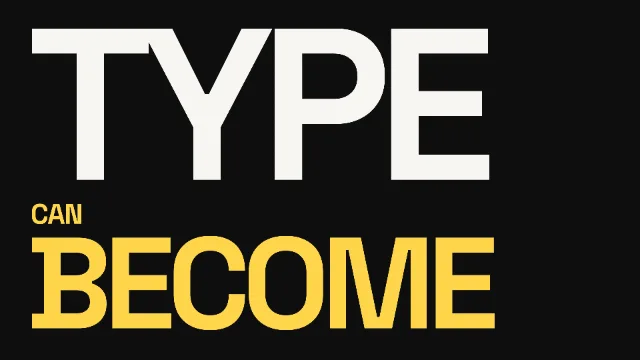
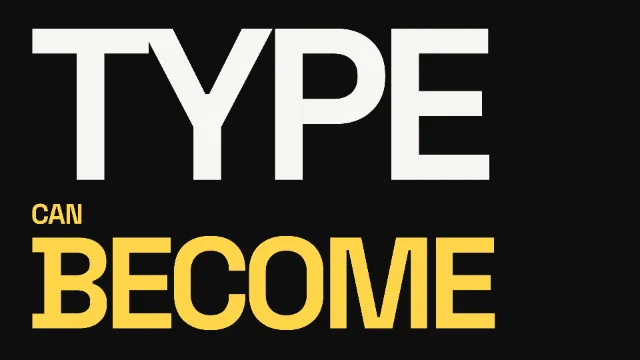
fix(kinetic-type): a staggered word reads once its slowest glyph settles
Readability (the layout contract's expected words and phrase checks at a
beat) evaluated the word-level reveal, so a staggered word counted as
readable while its last letters were still rising. It now requires every
glyph to be settled. The reference piece moves its shared axis half a
pixel-step inside title-safe and narrows the tall-frame TYPE so the
widest face at full weight clears the action column.

diff --git a/src/lib/platform/kinetic-type-field-validation.ts b/src/lib/platform/kinetic-type-field-validation.ts
@@ -10,6 +10,7 @@ import {
 	type SurfaceState
 } from './engine-schema';
 import { evaluateKeyframeTrackAtMs } from './keyframe-track-evaluation';
+import { evaluateKineticWordGlyphFrames } from '$lib/utils/kinetic-word-glyphs';
 
 /** Semantic finding inside `surface.typeField`. Structural ceilings live in Zod. */
 export interface KineticTypeFieldSemanticIssue {
@@ -30,9 +31,13 @@ export const KINETIC_PHRASE_READABLE_REVEAL = 0.02;
  */
 export function isKineticWordReadableAt(word: KineticWord, atMs: number): boolean {
 	const channels = word.animation?.channels;
-	return (
-		evaluateKeyframeTrackAtMs(channels?.opacity, atMs, 1) >= KINETIC_PHRASE_READABLE_OPACITY &&
-		Math.abs(evaluateKeyframeTrackAtMs(channels?.reveal, atMs, 0)) <= KINETIC_PHRASE_READABLE_REVEAL
+	if (evaluateKeyframeTrackAtMs(channels?.opacity, atMs, 1) < KINETIC_PHRASE_READABLE_OPACITY) {
+		return false;
+	}
+	// Every glyph, not the word-level value: a staggered word reads only once
+	// its slowest glyph has settled too.
+	return evaluateKineticWordGlyphFrames(word.text, channels?.reveal, word.glyphStagger, atMs).every(
+		(glyph) => Math.abs(glyph.reveal) <= KINETIC_PHRASE_READABLE_REVEAL
 	);
 }
 
@@ -134,13 +139,17 @@ export function validateKineticTypeFieldSemantics(
 		if (!beat) continue;
 		const unreadable: string[] = [];
 		for (const wordId of phrase.wordIds) {
-			const channels = wordsById.get(wordId)?.animation?.channels;
+			const word = wordsById.get(wordId);
+			if (!word || isKineticWordReadableAt(word, beat.atMs)) continue;
+			const channels = word.animation?.channels;
 			const opacity = evaluateKeyframeTrackAtMs(channels?.opacity, beat.atMs, 1);
 			const reveal = evaluateKeyframeTrackAtMs(channels?.reveal, beat.atMs, 0);
 			if (opacity < KINETIC_PHRASE_READABLE_OPACITY) {
 				unreadable.push(`"${wordId}" is at opacity ${opacity.toFixed(2)}`);
-			} else if (Math.abs(reveal) > KINETIC_PHRASE_READABLE_REVEAL) {
-				unreadable.push(`"${wordId}" is ${reveal < 0 ? 'still rising into' : 'leaving'} its mask`);
+			} else {
+				unreadable.push(
+					`"${wordId}" is ${reveal < 0 || reveal === 0 ? 'still rising into' : 'leaving'} its mask`
+				);
 			}
 		}
 		if (unreadable.length > 0) {
